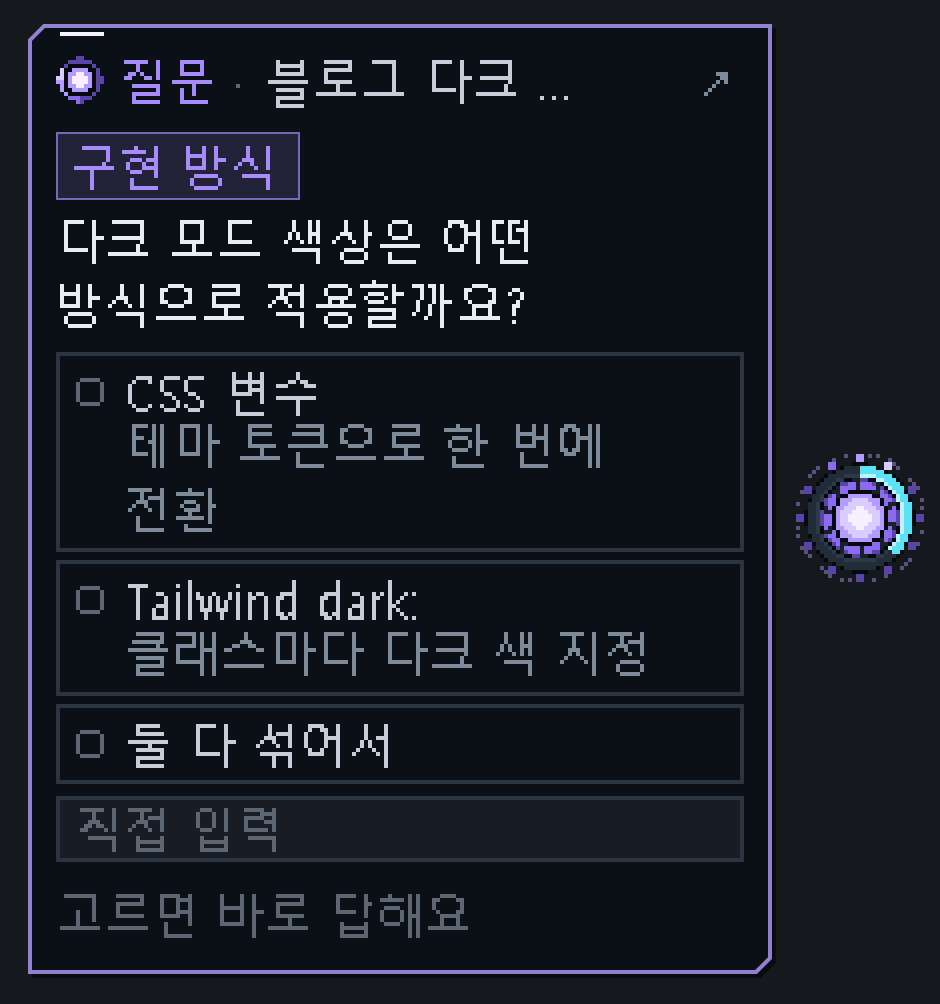
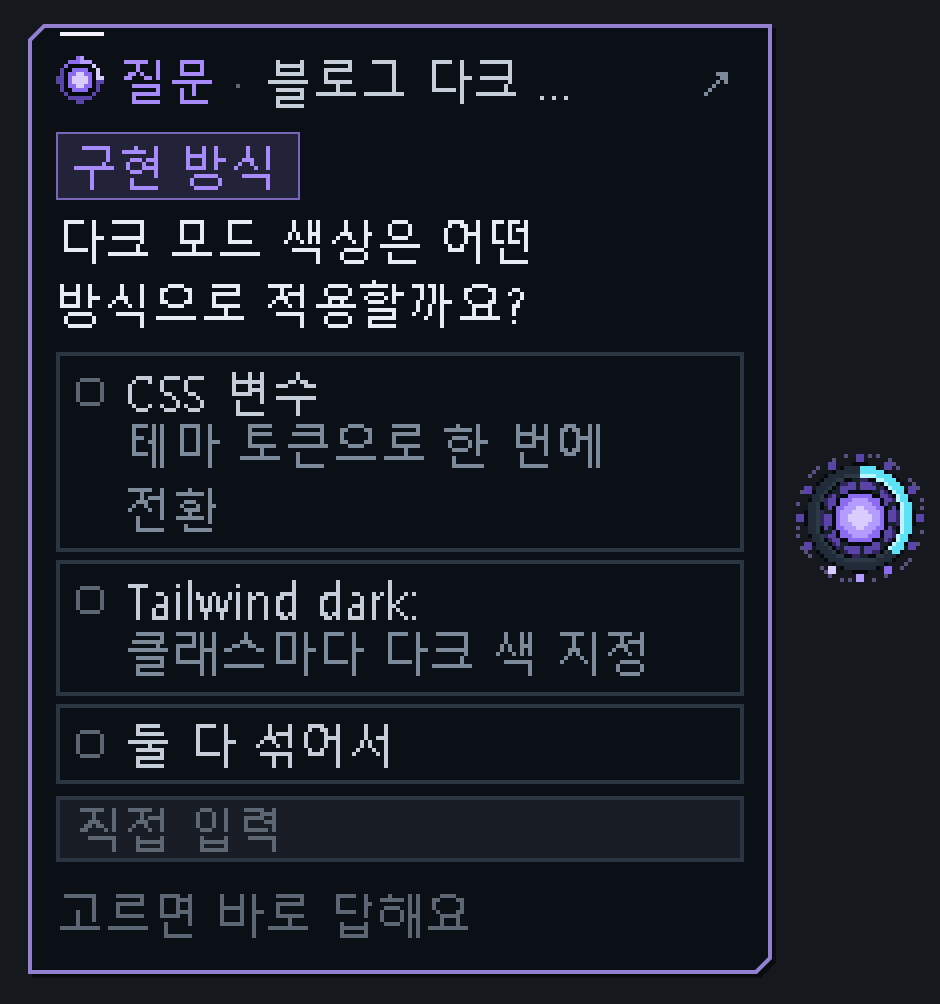
Rename to orbit-hud; notices can be closed
- The project, plugin, widget, live folder and env var are now orbit-hud
  (ORBIT_HUD_LIVE); the hotkey is Ctrl+Alt+O.
- Notices carry a close mark and go the moment they are pressed.
- The app is opened through explorer.exe, so the widget no longer stalls
  (and the core no longer stutters) while Windows brings it forward.

Changed region(s): [[0.8638, 0.4631, 0.9564, 0.5558], [0.0617, 0.0618, 0.1234, 0.0926]]

diff --git a/hooks/register.tsx b/hooks/register.tsx
@@ -6,14 +6,14 @@ import type { Limit, Spend, Touch, TouchKind, Usage, Work } from '../types'
 const PANE = 'hud-work'
 const RECENT = 5
 
-const usage = atom({ plugin: 'jarvis-hud', key: 'usage' } as const, null)
-const work = atom({ plugin: 'jarvis-hud', key: 'work' } as const, {
+const usage = atom({ plugin: 'orbit-hud', key: 'usage' } as const, null)
+const work = atom({ plugin: 'orbit-hud', key: 'work' } as const, {
   isActive: false,
   startedAt: 0,
   endedAt: 0,
   touches: [],
 })
-const spend = atom({ plugin: 'jarvis-hud', key: 'spend' } as const, null as Spend | null)
+const spend = atom({ plugin: 'orbit-hud', key: 'spend' } as const, null as Spend | null)
 
 const WINDOW_SLACK_MS = 60_000
 
@@ -602,7 +602,7 @@ export const register: Register = on => {
     cwd = e.cwd
     // Live files sit outside the plugin folder so writing them never triggers a reload.
     const root = slash($.plugin.root)
-    const live = `${parent(parent(root))}/jarvis-hud-live`
+    const live = `${parent(parent(root))}/orbit-hud-live`
     const id = await $.session.id()
     liveFile = `${live}/sessions/${id}.json`
     commandFile = `${live}/commands/${id}.json`
@@ -630,7 +630,7 @@ export const register: Register = on => {
     })
     await $.command.register({
       name: 'hud',
-      description: '자비스 위젯 켜고 끄기 (/hud on, /hud off · 단축키 Ctrl+Alt+J), 인자 없으면 작업 현황 패널',
+      description: 'Orbit 위젯 켜고 끄기 (/hud on, /hud off · 단축키 Ctrl+Alt+O), 인자 없으면 작업 현황 패널',
     })
     await refreshUsage($)
     await publish($)
@@ -649,11 +649,11 @@ export const register: Register = on => {
       // Starts it if it is not running (it keeps to one instance), and brings it back if hidden.
       await $.fs.write(widgetCommandFile, 'show')
       await launchWidget($)
-      return { text: '자비스 위젯을 켰어요. (Ctrl+Alt+J로 숨기기)' }
+      return { text: 'Orbit 위젯을 켰어요. (Ctrl+Alt+O로 숨기기)' }
     }
     if (arg === 'off') {
       await $.fs.write(widgetCommandFile, 'hide')
-      return { text: '자비스 위젯을 숨겼어요. /hud on 이나 Ctrl+Alt+J로 다시 켤 수 있어요.' }
+      return { text: 'Orbit 위젯을 숨겼어요. /hud on 이나 Ctrl+Alt+O로 다시 켤 수 있어요.' }
     }
     await $.ui.open({ id: PANE, title: '작업 현황' })
     return { text: '작업 현황 패널을 열었어요.' }

diff --git a/types/index.d.ts b/types/index.d.ts
@@ -42,7 +42,7 @@ export type Spend = {
 
 declare module 'claude-code' {
   interface PluginState {
-    'jarvis-hud': {
+    'orbit-hud': {
       usage: Usage | null
       work: Work
       spend: Spend | null

diff --git a/README.md b/README.md
@@ -1,8 +1,8 @@
 <div align="center">
 
-<img src="docs/core.gif" width="560" alt="자비스 코어: 대기, 작업 중, 질문">
+<img src="docs/core.gif" width="560" alt="Orbit 코어: 대기, 작업 중, 질문">
 
-# JARVIS HUD
+# ORBIT HUD
 
 **Claude Code 세션 여러 개를, 화면 구석의 코어 하나로.**
 
@@ -26,7 +26,7 @@ Claude Code로 세션을 여러 개 돌리다 보면 이런 일이 생겨요.
 - 5시간 사용량이 얼마나 남았는지, **어떤 세션이 많이 먹었는지** 알기 어려워요.
 - 컨텍스트가 꽉 차 가는 걸 놓치고 있다가 자동 압축을 맞아요.
 
-JARVIS HUD는 이걸 **코어 하나**로 보여 줘요. 필요한 순간에만 알려 주고, 대답이나 압축 같은 간단한 일은 앱을 열지 않고 그 자리에서 처리해요.
+ORBIT HUD는 이걸 **코어 하나**로 보여 줘요. 필요한 순간에만 알려 주고, 대답이나 압축 같은 간단한 일은 앱을 열지 않고 그 자리에서 처리해요.
 
 ## 기능
 
@@ -85,7 +85,7 @@ Claude가 선택지 질문을 하면 코어가 보라색으로 바뀌고 질문 
 | 코어 **드래그** | 원하는 곳으로 옮기기 (위치는 기억해요) |
 | 코어에 **마우스 올리기** | 사용량 카드 보기 |
 | 코어 **우클릭** | 코어 크기, 위치 초기화, 숨기기, 종료 |
-| **`Ctrl` + `Alt` + `J`** | 어디서든 위젯 숨기기 / 보이기 |
+| **`Ctrl` + `Alt` + `O`** | 어디서든 위젯 숨기기 / 보이기 |
 | `/hud on` · `/hud off` | Claude Code에서 위젯 켜기 / 숨기기 |
 | 세션 행 **클릭** | 채팅 카드 열기 (`Enter` 보내기 · `Shift+Enter` 줄바꿈 · `Esc` 닫기) |
 
@@ -96,7 +96,7 @@ Claude가 선택지 질문을 하면 코어가 보라색으로 바뀌고 질문 
 1. 저장소를 받아요.
 
    ```bash
-   git clone https://github.com/Lee-Front/jarvis-hud.git
+   git clone https://github.com/Lee-Front/orbit-hud.git
    ```
 
 2. `~/.claude/settings.json`의 `env`에 플러그인 폴더를 등록하고 함수 훅을 켜요.
@@ -104,7 +104,7 @@ Claude가 선택지 질문을 하면 코어가 보라색으로 바뀌고 질문 
    ```json
    {
      "env": {
-       "CLAUDE_CODE_PLUGIN_DIRS": "C:\\path\\to\\jarvis-hud",
+       "CLAUDE_CODE_PLUGIN_DIRS": "C:\\path\\to\\orbit-hud",
        "CLAUDE_CODE_ENABLE_FUNCTION_HOOKS": "1"
      }
    }
@@ -121,7 +121,7 @@ flowchart LR
   subgraph S["Claude Code 세션 (세션마다 하나)"]
     P["플러그인<br/>hooks/register.tsx"]
   end
-  F[("~/.claude/jarvis-hud-live/<br/>JSON 파일")]
+  F[("~/.claude/orbit-hud-live/<br/>JSON 파일")]
   W["위젯<br/>widget/widget.ps1 (WPF)"]
   P -- "상태 · 사용량 · 질문 · 대화" --> F
   F --> W
